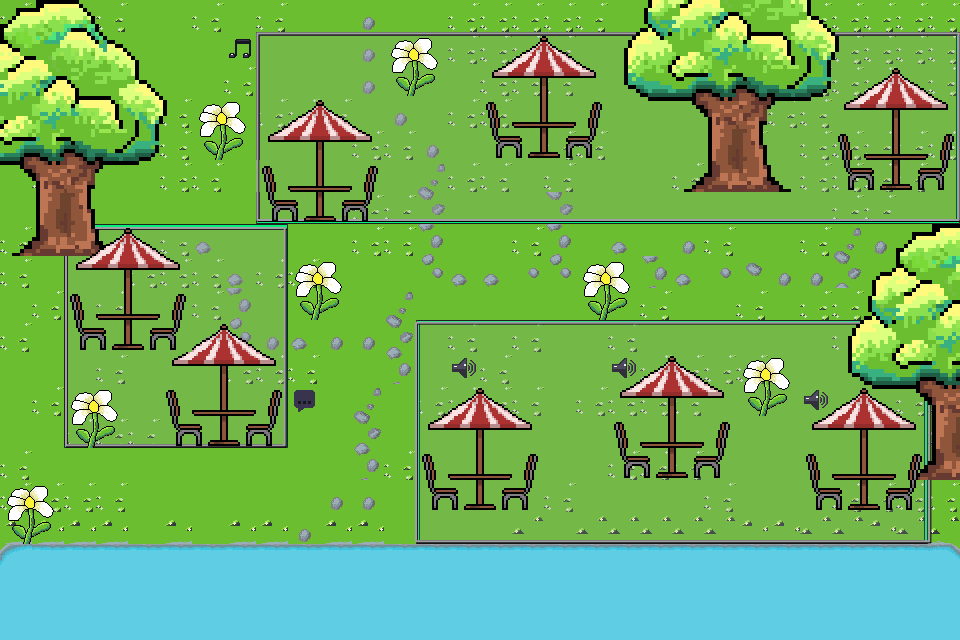
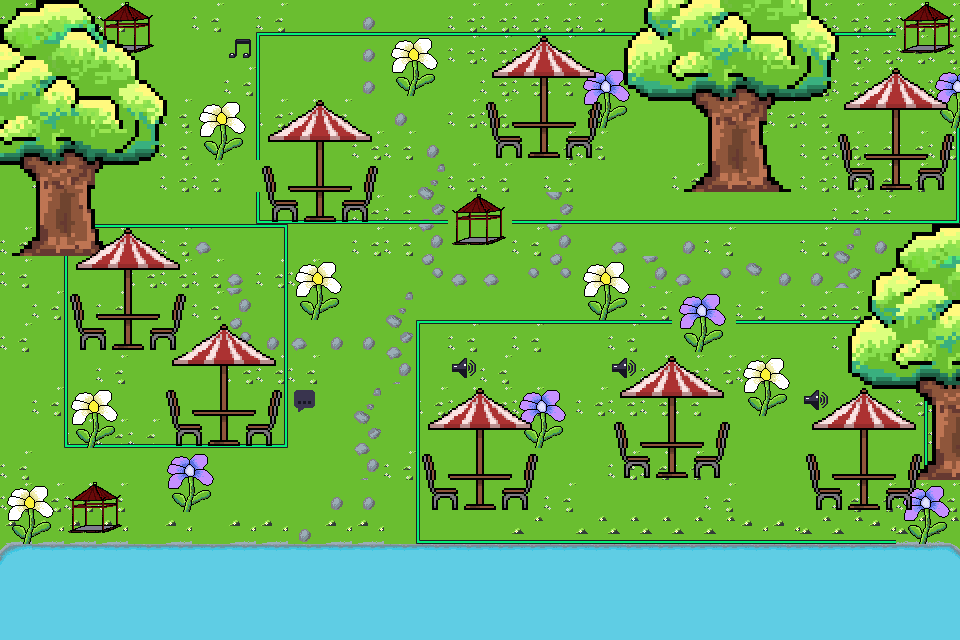
Add files via upload

diff --git a/tilesets/Sprite-flower_2.tsx b/tilesets/Sprite-flower_2.tsx
@@ -1,0 +1,4 @@
+<?xml version="1.0" encoding="UTF-8"?>
+<tileset version="1.10" tiledversion="1.11.2" name="Sprite-flower_2" tilewidth="32" tileheight="32" tilecount="4" columns="2">
+ <image source="Sprite-flower_2.png" width="64" height="64"/>
+</tileset>

diff --git a/tilesets/house.tsx b/tilesets/house.tsx
@@ -1,0 +1,4 @@
+<?xml version="1.0" encoding="UTF-8"?>
+<tileset version="1.10" tiledversion="1.11.2" name="house" tilewidth="32" tileheight="32" tilecount="4" columns="2">
+ <image source="house.png" width="64" height="64"/>
+</tileset>
